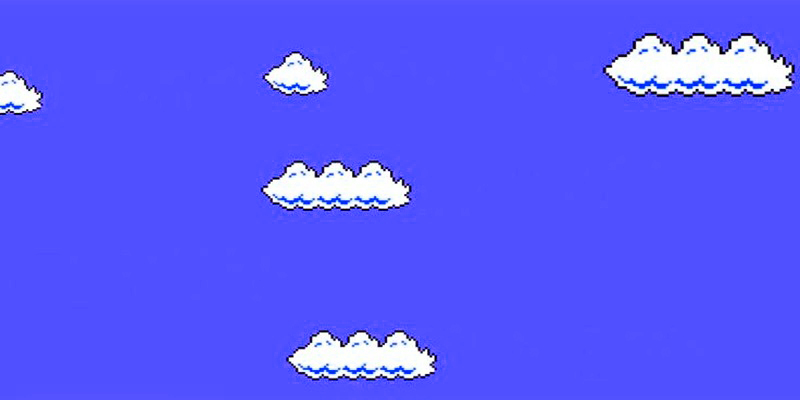
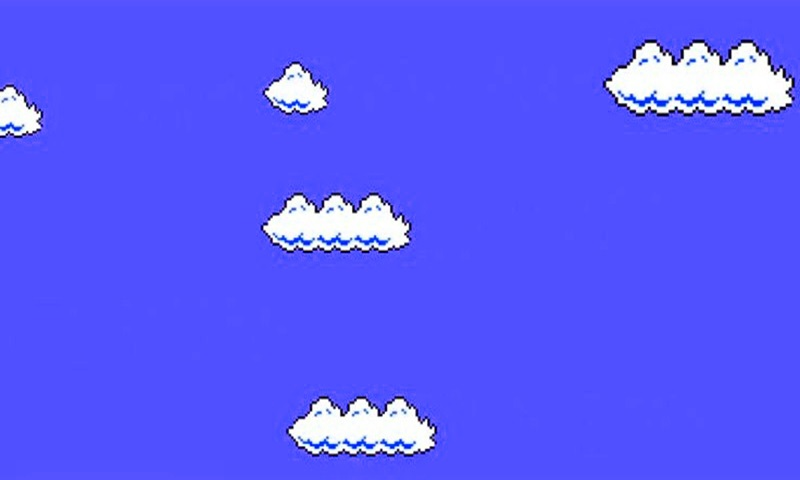
se anadio una funcion para crear vacios en la escena en el archivo app.js

diff --git a/js/app.js b/js/app.js
@@ -1,6 +1,6 @@
 // Configuracion del juego
 const w = 800;
-const h = 400;
+const h = 480;
 const world = 4000;
 // Configuración de Phaser
 const config = {
@@ -38,6 +38,7 @@ let sfx = {};
 let bgm;
 // plataformas moviles
 let plataformasMoviles, pinchos, lava;
+const huecos = [[0, 240], [400, 240]];
 
 
 new Phaser.Game(config);
@@ -104,7 +105,12 @@ function create() {
 
     // Suelo completo
     for (let x = 0; x < world; x += 64) {
-        plataformas.create(x, h - 32, 'plataforma').setOrigin(0).refreshBody();
+        if(estaHueco(x, huecos)){
+            continue // salta crteacion si cae al hueco
+        }
+        plataformas.create(x, h - 32, 'plataforma')
+        .setOrigin(0)
+        .refreshBody();
         plataformas.create(x, h - 16, 'plataforma').setOrigin(0).refreshBody();
     }
 
@@ -379,6 +385,17 @@ function tocarPincho(player, pincho) {
     })
     vidas--;
     textoVidas.setText(`Vidas: ${vidas}`);
+}
+
+// funcion para huecos
+
+function estaHueco (x, rangos) {
+    for (const[ini, ancho] of rangos) {
+        if(x >= ini && x < ini + ancho){
+            return true;
+        }
+    }
+    return false;
 }
 
 // // Funcion para reiniciar el nivel 
